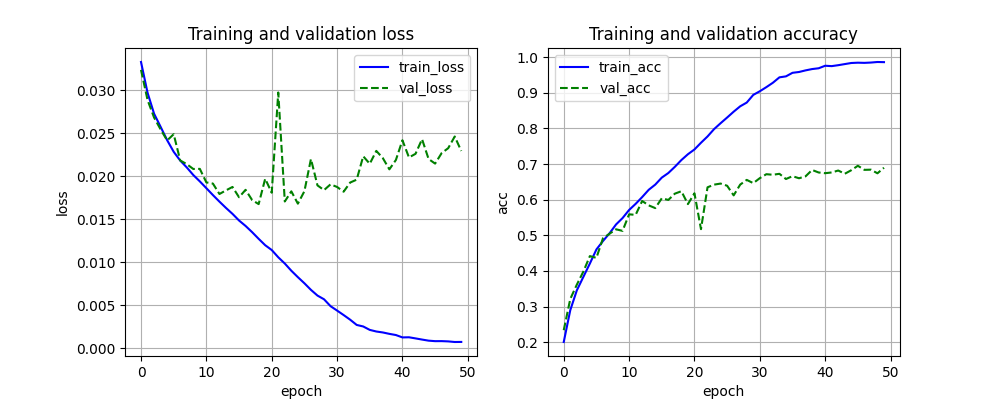
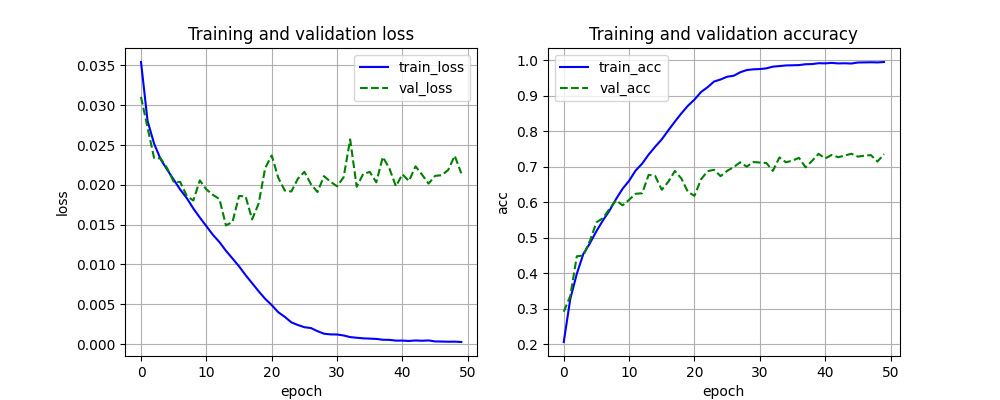
Resnet

diff --git a/cifar10/network/plot.py b/cifar10/network/plot.py
@@ -1,13 +1,14 @@
 import matplotlib.pyplot as plt
 
+
 ta_Lenet = [0.105475, 0.11065, 0.110525, 0.109825, 0.14695, 0.218275, 0.259075, 0.270725, 0.2842, 0.299775, 0.318225, 0.33875, 0.3565, 0.37595, 0.39065, 0.4067, 0.4157, 0.4313, 0.440775, 0.448775, 0.459875, 0.468275, 0.474725, 0.48155, 0.490075, 0.49295, 0.498375, 0.50495, 0.509375, 0.514675, 0.51805, 0.522825, 0.527825, 0.532675, 0.537225, 0.53885, 0.54685, 0.547275, 0.553675, 0.5577, 0.563025, 0.567625, 0.5703, 0.57465, 0.580175, 0.582475, 0.58605, 0.58925, 0.594625, 0.5952, 0.6016, 0.6045, 0.60775, 0.6123, 0.61405, 0.617325, 0.6195, 0.623275, 0.62935, 0.627875, 0.632325, 0.633925, 0.6366, 0.640475, 0.642125, 0.64465, 0.646225, 0.650875, 0.655875, 0.656425, 0.658325, 0.6614, 0.6609, 0.6635, 0.6682, 0.6712, 0.675625, 0.67825, 0.677425, 0.678625, 0.682725, 0.6834, 0.685525, 0.68975, 0.689125, 0.6923, 0.69435, 0.6958, 0.699, 0.698475, 0.703925, 0.7031, 0.708675, 0.7096, 0.710525, 0.713825, 0.713275, 0.717825, 0.717825, 0.722225]
 va_Lenet = [0.1161, 0.1036, 0.1156, 0.1125, 0.1859, 0.2594, 0.2568, 0.2621, 0.2945, 0.3072, 0.3258, 0.3518, 0.3683, 0.3906, 0.3996, 0.3815, 0.4145, 0.4147, 0.4392, 0.4481, 0.4569, 0.454, 0.4584, 0.4661, 0.4644, 0.479, 0.4895, 0.4852, 0.497, 0.4952, 0.5057, 0.505, 0.4934, 0.513, 0.5234, 0.5246, 0.5314, 0.5257, 0.5246, 0.5335, 0.5389, 0.5368, 0.5436, 0.5485, 0.5427, 0.5524, 0.5342, 0.5531, 0.5578, 0.5611, 0.5477, 0.5548, 0.5679, 0.5653, 0.566, 0.5684, 0.5836, 0.5758, 0.5758, 0.5645, 0.5795, 0.5734, 0.5851, 0.5743, 0.5871, 0.582, 0.581, 0.5972, 0.5896, 0.5921, 0.5975, 0.5897, 0.5944, 0.5979, 0.5924, 0.5983, 0.5871, 0.5964, 0.6042, 0.6053, 0.6003, 0.5987, 0.5829, 0.594, 0.6005, 0.6002, 0.5887, 0.5986, 0.6012, 0.6032, 0.6047, 0.6033, 0.5955, 0.6102, 0.6077, 0.5957, 0.5996, 0.6059, 0.6103, 0.6034]
 ta_Mobilenet = [0.2349, 0.37175, 0.453725, 0.51925, 0.569475, 0.603475, 0.629275, 0.66165, 0.687225, 0.7057, 0.721875, 0.740425, 0.759075, 0.77725, 0.78835, 0.802575, 0.82025, 0.83255, 0.843825, 0.859775, 0.8719, 0.88075, 0.8882, 0.900175, 0.9084, 0.916675, 0.924425, 0.928875, 0.936825, 0.943825, 0.950875, 0.958425, 0.96115, 0.96605, 0.965375, 0.968675, 0.9699, 0.973525, 0.97535, 0.978425, 0.980075, 0.98105, 0.983725, 0.9845, 0.984925, 0.9864, 0.988, 0.98845, 0.989275, 0.9902]
 va_Mobilenet = [0.2752, 0.4224, 0.4941, 0.547, 0.5632, 0.5879, 0.625, 0.6625, 0.6731, 0.6831, 0.6995, 0.7189, 0.7064, 0.7244, 0.7263, 0.7345, 0.7449, 0.7428, 0.747, 0.7473, 0.7571, 0.7472, 0.756, 0.7591, 0.7559, 0.7503, 0.7543, 0.7623, 0.7558, 0.7464, 0.7538, 0.753, 0.7522, 0.7582, 0.7627, 0.759, 0.7603, 0.7657, 0.76, 0.7634, 0.7647, 0.766, 0.7634, 0.7666, 0.7666, 0.7689, 0.7663, 0.7732, 0.7611, 0.7698]
 ta_VGG16 = [0.338425, 0.46985, 0.52355, 0.5699, 0.61385, 0.644525, 0.6745, 0.6988, 0.72625, 0.747475, 0.767525, 0.789225, 0.80835, 0.82785, 0.843775, 0.8605, 0.876025, 0.8913, 0.903975, 0.920025, 0.928625, 0.937775, 0.94845, 0.955675, 0.96145, 0.96785, 0.9721, 0.974275, 0.98025, 0.98255, 0.982775, 0.985375, 0.98615, 0.9859, 0.989175, 0.98955, 0.990575, 0.991175, 0.993475, 0.992825, 0.9931, 0.99375, 0.99435, 0.9938, 0.995, 0.994375, 0.995275, 0.9956, 0.995125, 0.996475]
 va_VGG16 = [0.4637, 0.5219, 0.5663, 0.5926, 0.6278, 0.6453, 0.6648, 0.6866, 0.6964, 0.7242, 0.7281, 0.7371, 0.7394, 0.7501, 0.7595, 0.744, 0.762, 0.7595, 0.7657, 0.78, 0.7817, 0.7799, 0.762, 0.7641, 0.7767, 0.7758, 0.7748, 0.7843, 0.7633, 0.7834, 0.7761, 0.7825, 0.7519, 0.7829, 0.7885, 0.7891, 0.7879, 0.7914, 0.7741, 0.7869, 0.7962, 0.798, 0.7962, 0.788, 0.7938, 0.7966, 0.7889, 0.7821, 0.7984, 0.7961]
-ta_Resnet50 = [0.20065, 0.289975, 0.345425, 0.383275, 0.420875, 0.46035, 0.483875, 0.505525, 0.5304, 0.5484, 0.571075, 0.588275, 0.6073, 0.6277, 0.64225, 0.6619, 0.67475, 0.692175, 0.7112, 0.7275, 0.7409, 0.759725, 0.777375, 0.79795, 0.814575, 0.8305, 0.846925, 0.862025, 0.8725, 0.894, 0.904225, 0.91575, 0.9281, 0.943275, 0.946025, 0.955975, 0.9583, 0.9628, 0.9665, 0.968725, 0.9758, 0.97475, 0.977375, 0.980475, 0.983525, 0.984375, 0.9839, 0.984775, 0.986325, 0.9859]
-va_Resnet50 = [0.2338, 0.3214, 0.3614, 0.3982, 0.4417, 0.4367, 0.4916, 0.5044, 0.5169, 0.5125, 0.5589, 0.5574, 0.5963, 0.584, 0.5764, 0.6038, 0.5993, 0.6169, 0.6237, 0.5876, 0.6179, 0.5173, 0.6347, 0.6422, 0.6452, 0.6391, 0.6121, 0.6423, 0.6555, 0.6464, 0.6604, 0.6715, 0.6699, 0.6726, 0.658, 0.6659, 0.6601, 0.6655, 0.6834, 0.6763, 0.6743, 0.6764, 0.6818, 0.6727, 0.6827, 0.6951, 0.6837, 0.6842, 0.674, 0.6896]
+ta_Resnet50 = [0.207, 0.328025, 0.399, 0.454875, 0.4848, 0.518925, 0.549425, 0.57675, 0.609275, 0.638125, 0.6608, 0.6896, 0.7091, 0.73475, 0.7569, 0.777425, 0.802675, 0.827175, 0.850525, 0.8719, 0.8892, 0.9105, 0.92405, 0.940125, 0.94595, 0.953625, 0.9564, 0.9662, 0.972475, 0.9745, 0.975275, 0.9772, 0.982075, 0.98365, 0.98545, 0.985875, 0.98645, 0.988825, 0.989275, 0.9917, 0.9913, 0.992575, 0.991125, 0.99155, 0.9908, 0.993675, 0.994, 0.994375, 0.9939, 0.995125]
+va_Resnet50 = [0.2922, 0.3364, 0.4483, 0.4503, 0.4914, 0.5439, 0.5556, 0.5818, 0.6062, 0.5916, 0.6073, 0.6242, 0.6257, 0.6776, 0.6742, 0.6354, 0.6581, 0.6883, 0.6672, 0.6295, 0.6184, 0.6646, 0.6877, 0.6917, 0.6738, 0.6887, 0.6993, 0.7129, 0.7005, 0.7135, 0.7122, 0.7109, 0.6887, 0.7265, 0.7128, 0.7177, 0.7253, 0.6987, 0.717, 0.7366, 0.7236, 0.7335, 0.7271, 0.7317, 0.737, 0.7288, 0.7315, 0.7331, 0.7149, 0.7358]
 ta_Efficientnetb1 = [0.251775, 0.404225, 0.4995, 0.569325, 0.62085, 0.6554, 0.695175, 0.725775, 0.75235, 0.779275, 0.801825, 0.82155, 0.83635, 0.855675, 0.870225, 0.881175, 0.893775, 0.906725, 0.91185, 0.921575, 0.926325, 0.93255, 0.939, 0.940025, 0.948725, 0.949825, 0.956275, 0.95575, 0.960425, 0.962, 0.963675, 0.96495, 0.9663, 0.970975, 0.9696, 0.97145, 0.972275, 0.970575, 0.97475, 0.976425, 0.97535, 0.9773, 0.9769, 0.98055, 0.980575, 0.980675, 0.9811, 0.98135, 0.9803, 0.984]
 va_Efficientnetb1 = [0.2281, 0.4644, 0.5316, 0.6009, 0.6051, 0.6798, 0.7078, 0.7289, 0.7262, 0.7522, 0.7652, 0.7445, 0.77, 0.7916, 0.7882, 0.7663, 0.7892, 0.7903, 0.784, 0.7915, 0.7947, 0.795, 0.796, 0.798, 0.7927, 0.7983, 0.7891, 0.8067, 0.8039, 0.8062, 0.8135, 0.8052, 0.8006, 0.8103, 0.815, 0.8123, 0.8099, 0.8028, 0.812, 0.8139, 0.8129, 0.8108, 0.8036, 0.8082, 0.8174, 0.8142, 0.8162, 0.8152, 0.811, 0.8084]
 num_epochs = 50

diff --git a/cifar10/network/net_cifar10.py b/cifar10/network/net_cifar10.py
@@ -25,6 +25,7 @@ parser.add_argument('--wd', type=float, default=0, help='set weight decay for op
 parser.add_argument('--test', action='store_true', help='test mode, with no log, model and graph output')
 parser.add_argument('--load', action='store_true', help='load your model (the file name should be *_cifar10.ckpt)')
 parser.add_argument('--use32', action='store_true', help='train with 32*32 graph size without resizing')
+parser.add_argument('--para', action='store_true', help='use multi GPU')
 args = parser.parse_args()
 
 model_file = args.network + "_cifar10.ckpt"
@@ -132,30 +133,33 @@ class Lenet_r(nn.Module):
         return self.fc2(x)
 
 
-device = 'cuda' if torch.cuda.is_available() else 'cpu'
 # choose network
 if network == 0:
-    net = Lenet().to(device)
+    net = Lenet()
 elif network == 1:
-    net = Lenet_r().to(device)
+    net = Lenet_r()
 elif network == 2:
-    net = models.mobilenet_v2(num_classes=10).to(device)
+    net = models.mobilenet_v2(num_classes=10)
 elif network == 3:
-    net = models.vgg16(num_classes=10).to(device)
+    net = models.vgg16(num_classes=10)
 elif network == 4:
-    net = models.vgg16_bn(num_classes=10).to(device)
+    net = models.vgg16_bn(num_classes=10)
 elif network == 5:
-    net = models.vgg16_bn(num_classes=10, init_weights=False).to(device)
+    net = models.vgg16_bn(num_classes=10, init_weights=False)
 elif network == 6:
-    net = models.resnet50(num_classes=10).to(device)
+    net = models.resnet50(num_classes=10)
 elif network == 7:
-    net = models.resnet101(num_classes=10).to(device)
+    net = models.resnet101(num_classes=10)
 elif network == 8:
-    net = EfficientNet.from_name('efficientnet-b0', override_params={'num_classes': 10}).to(device)
+    net = EfficientNet.from_name('efficientnet-b0', override_params={'num_classes': 10})
 elif network == 9:
-    net = EfficientNet.from_name('efficientnet-b1', override_params={'num_classes': 10}).to(device)
+    net = EfficientNet.from_name('efficientnet-b1', override_params={'num_classes': 10})
 else:
     sys.exit(1)
+device = 'cuda' if torch.cuda.is_available() else 'cpu'
+if args.para and torch.cuda.device_count() > 1:
+    net = nn.DataParallel(net)
+net.to(device)
 
 criterion = nn.CrossEntropyLoss()
 optimizer = optim.SGD(net.parameters(), lr=args.lr, momentum=args.m, weight_decay=args.wd)
